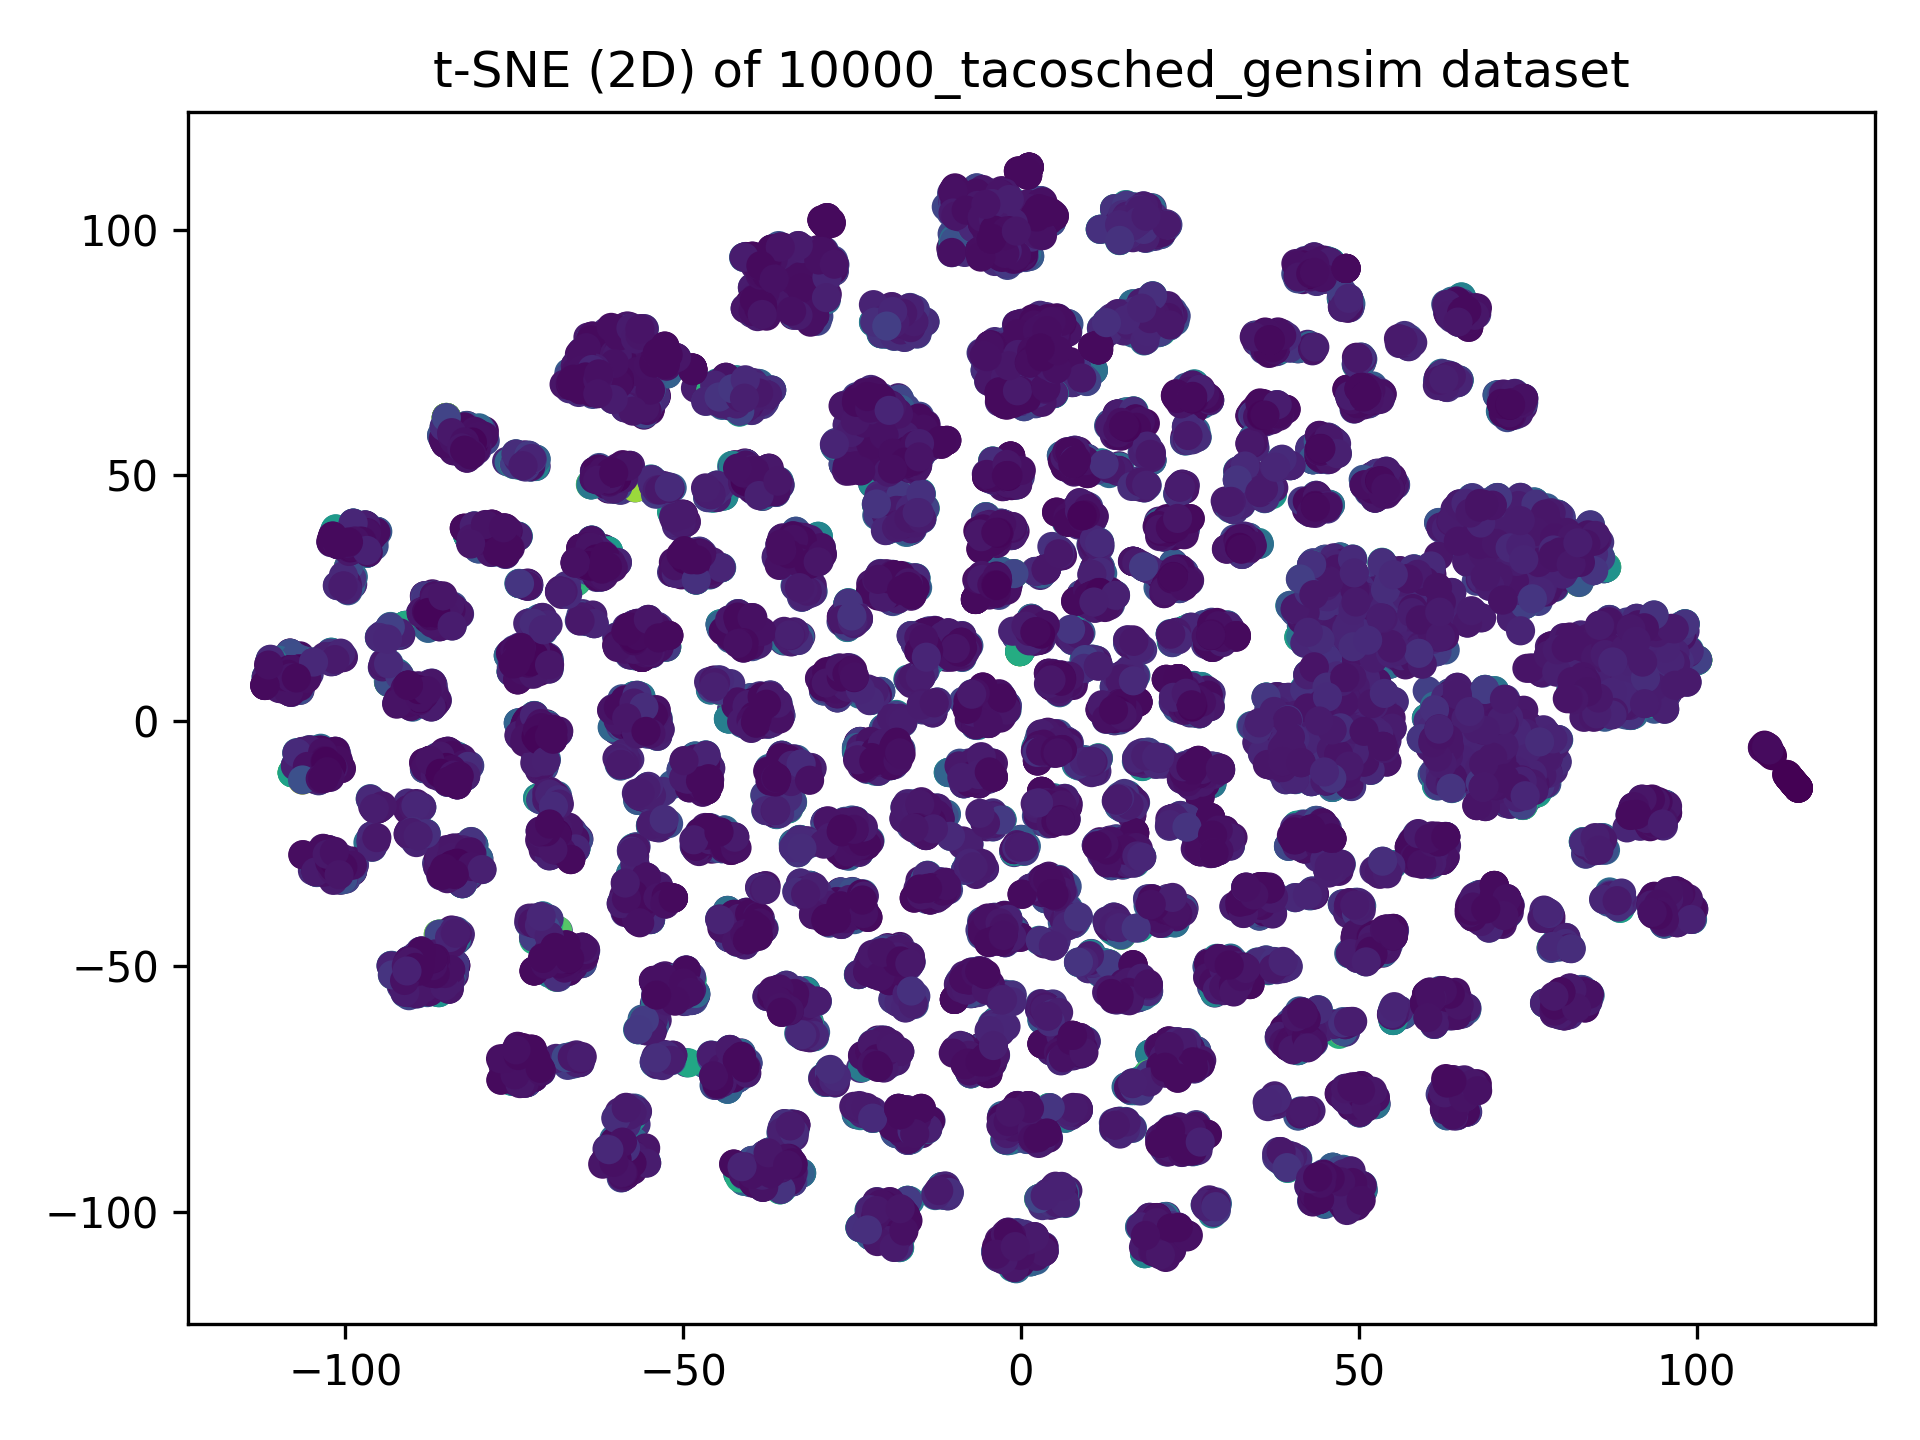
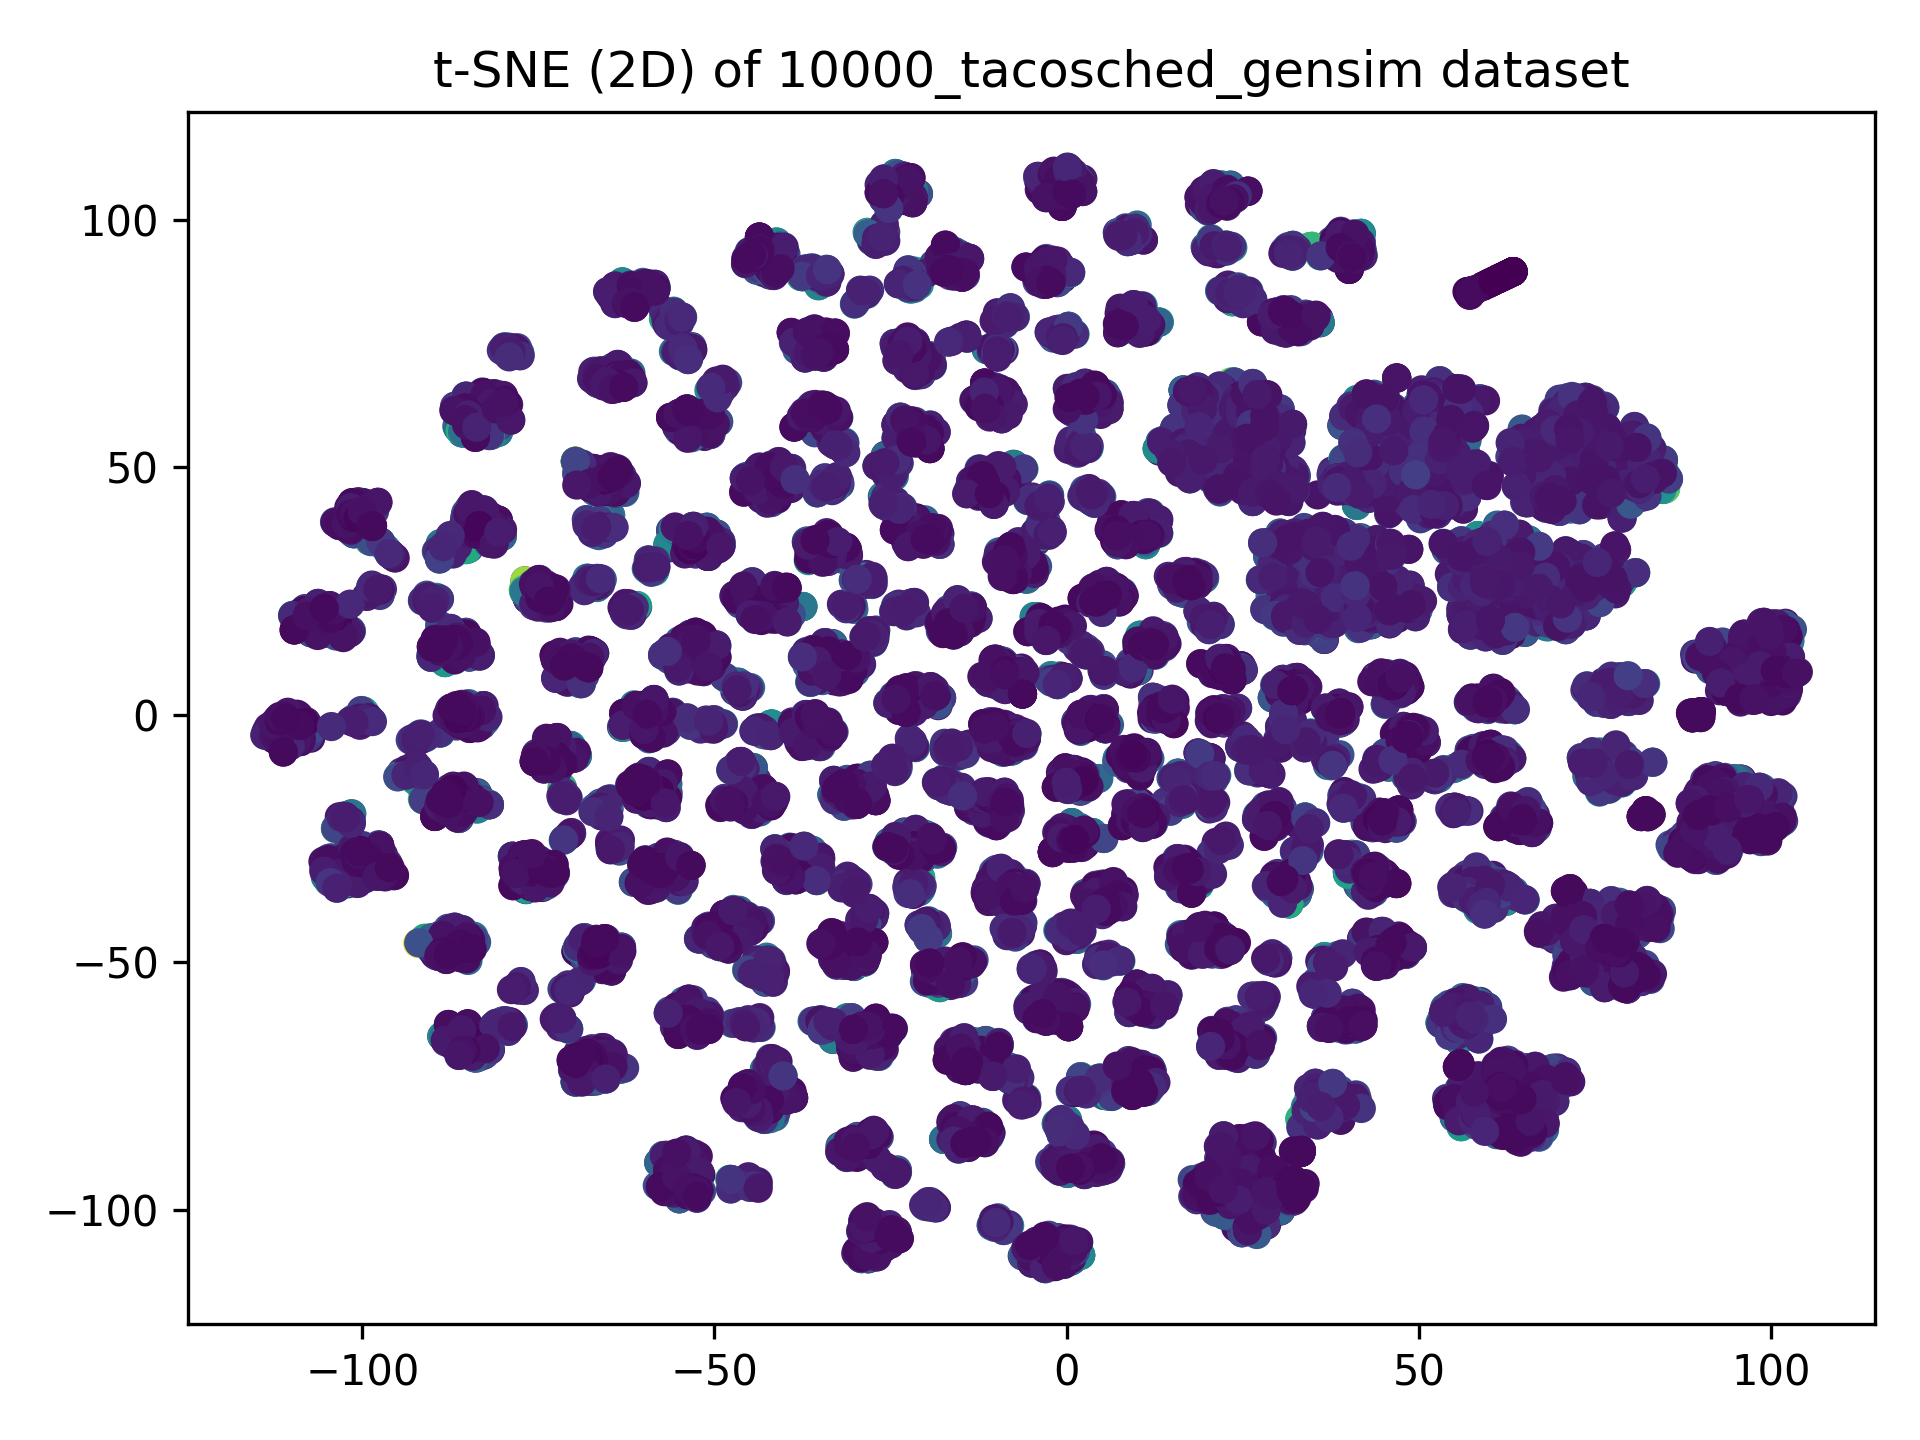
feat: redo data and start on plots

diff --git a/lang-explorer-python/src/commands/viz.py b/lang-explorer-python/src/commands/viz.py
@@ -21,7 +21,7 @@ def data_viz(args):
 
 	print(data.shape)
 
-	embedding2 = TSNE(2).fit_transform(data.iloc[:,2:-1])
+	embedding2 = TSNE(2).fit_transform(data.iloc[:,3:-1])
 	plt.title(f"t-SNE (2D) of {plain} dataset")
 	plt.scatter(embedding2[:,0], embedding2[:,1], c=data["plen"])
 	plt.tight_layout()
@@ -29,7 +29,12 @@ def data_viz(args):
 	plt.close()
 
 	plt.title(f"t-SNE (2D) of {plain} dataset")
-	plt.scatter(embedding2[:,0], embedding2[:,1], c=data["is_partial"])
+	color_map = {True: "green", False: "blue"}
+	label_map = {True: "Incomplete Program", False: "Complete Program"}
+	colors = [color_map[val] for val in data["is_partial"]]
+	# labels = [label_map[val] for val in data["is_partial"]]
+
+	plt.scatter(embedding2[:,0], embedding2[:,1], c=colors)
 	plt.tight_layout()
 	plt.legend()
 	plt.savefig(f"{args.output}/tsne2d{plain}ispartial.png", dpi=300)
